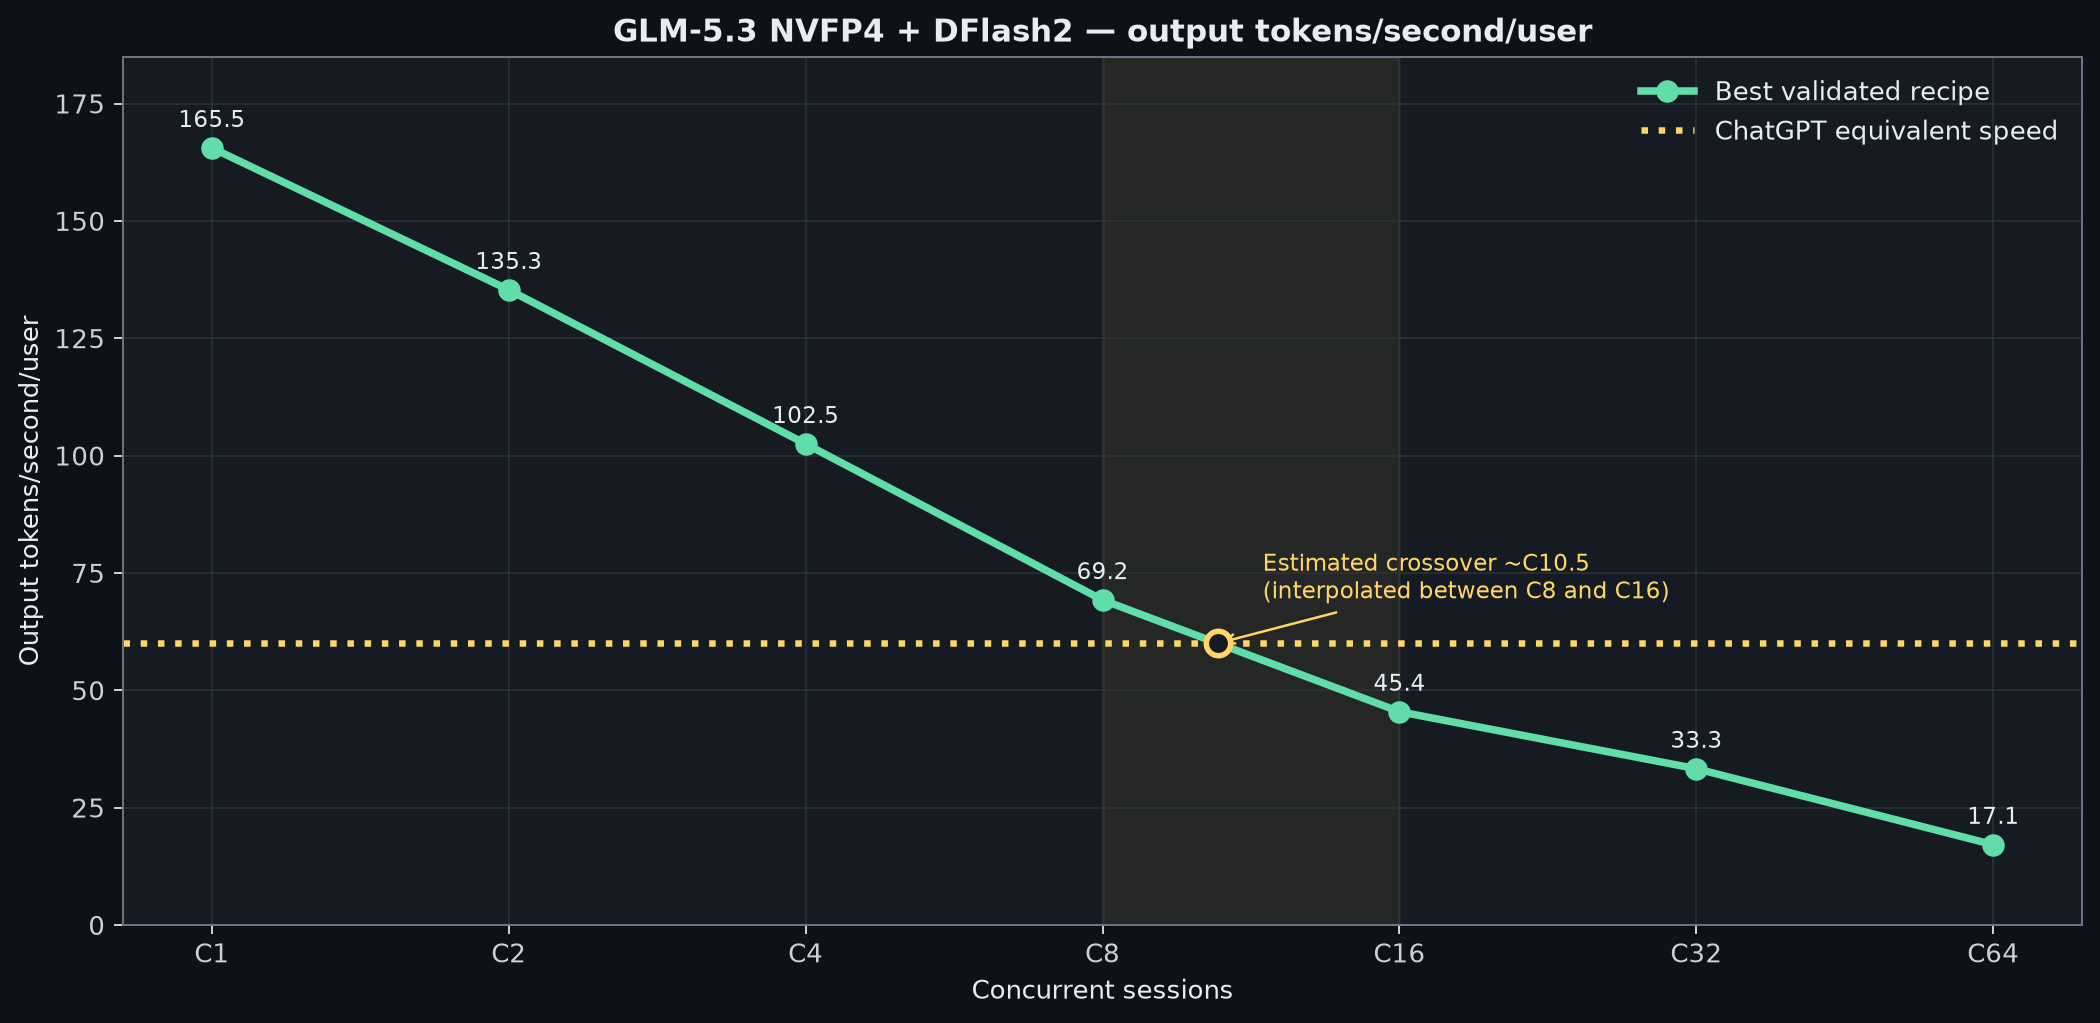
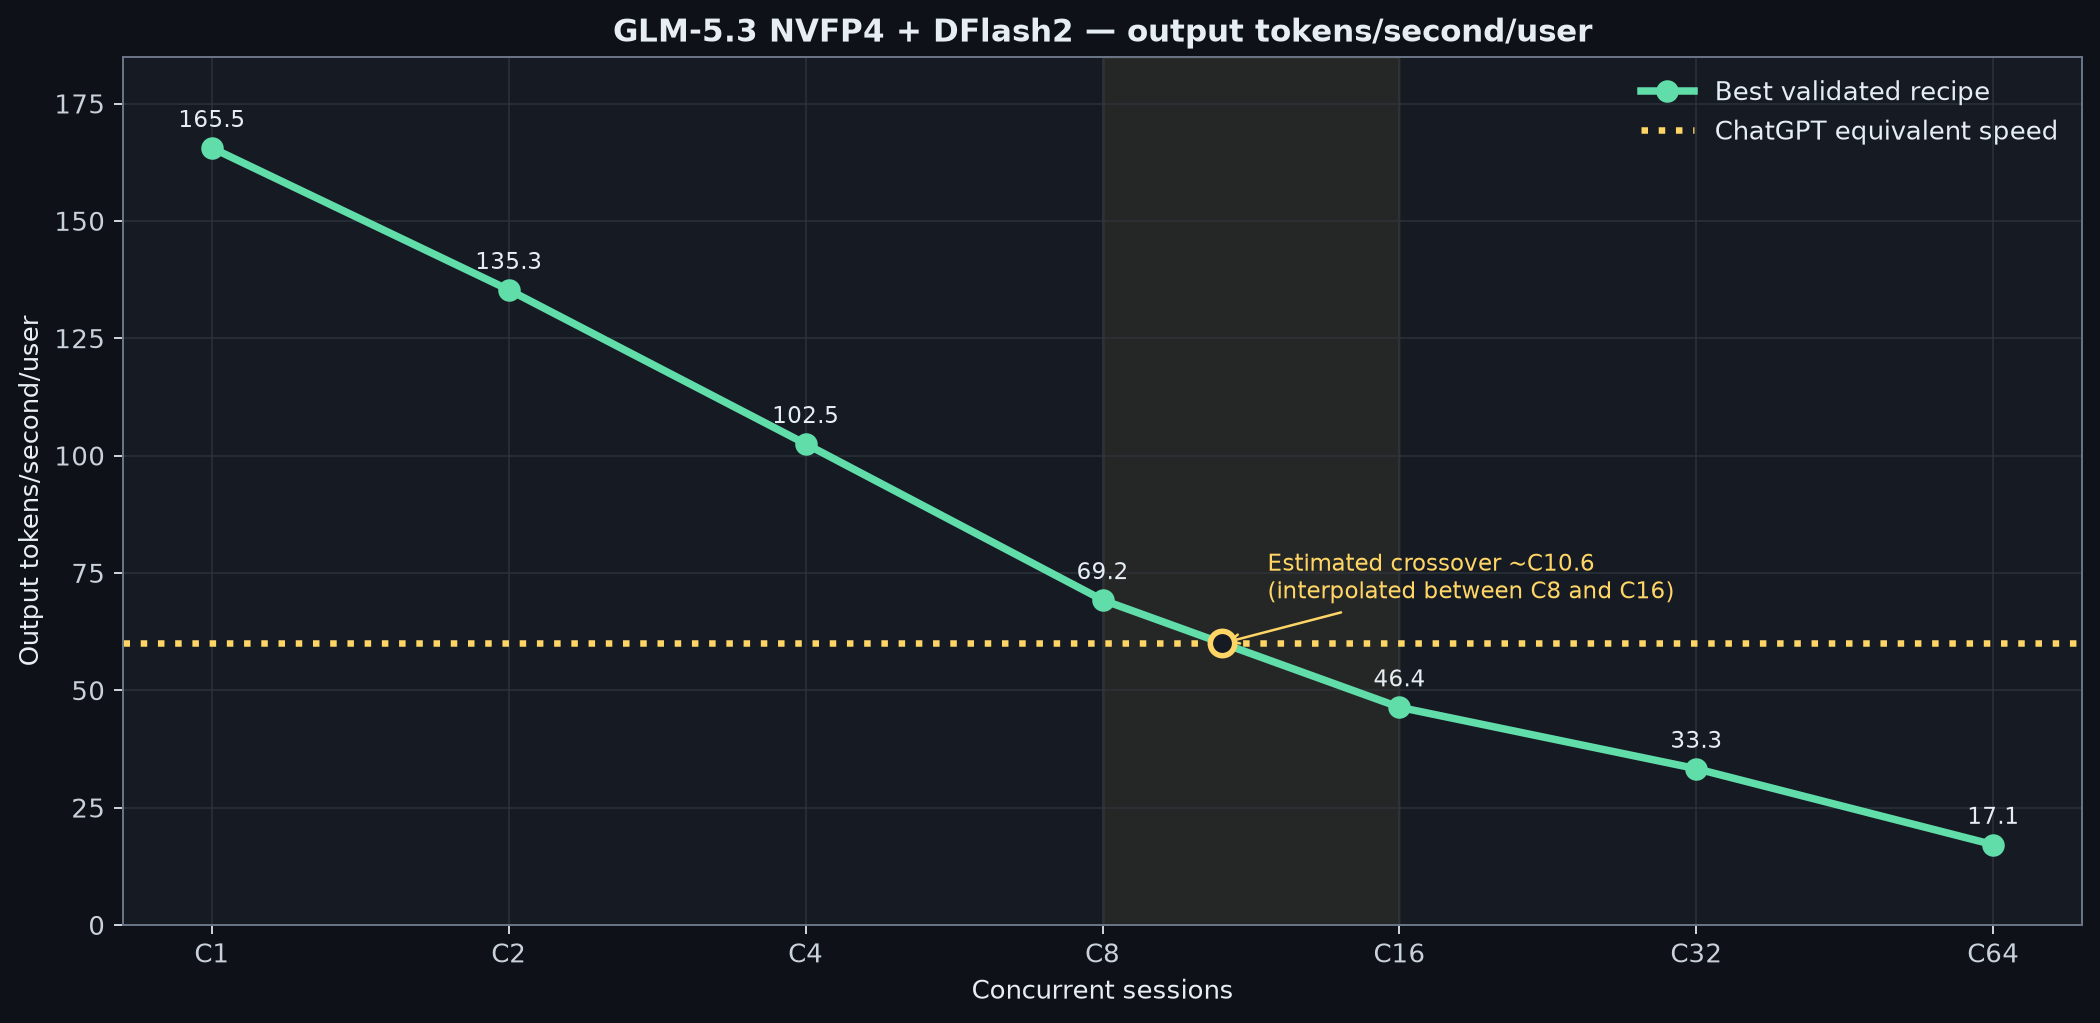
Update GLM-5.3 PP2 C16 headline

Changed region(s): [[0.5571, 0.5455, 0.8048, 0.6667], [0.619, 0.6364, 0.7429, 0.7273], [0.7429, 0.7273, 0.7738, 0.7576]]

diff --git a/glm-5.3/tests/test_section_contract.py b/glm-5.3/tests/test_section_contract.py
@@ -177,7 +177,7 @@ class SectionContractTests(unittest.TestCase):
             (PP2_K4_PROFILE, "prose", 1): 106.25905247627794,
             (PP2_K5_PROFILE, "code_structured", 4): 409.9076978364676,
             (PP2_K7_PROFILE, "code_structured", 8): 553.8355856788203,
-            (PP2_K7_PROFILE, "code_structured", 16): 726.8489766746203,
+            (PP2_K7_PROFILE, "code_structured", 16): 741.9938389998094,
             (PP2_K7_PROFILE, "code_structured", 32): 1064.9785671015213,
             (PP2_K7_PROFILE, "code_structured", 64): 1093.7931437564482,
         }
@@ -221,7 +221,7 @@ class SectionContractTests(unittest.TestCase):
         renderer = (ROOT / "charts/render-charts.py").read_text(encoding="utf-8")
         self.assertIn("**165.5 tok/s**", section)
         self.assertIn("**107.4 tok/s**", section)
-        self.assertIn("**726.8 tok/s**", section)
+        self.assertIn("**742.0 tok/s**", section)
         self.assertIn("**1,065.0 tok/s**", section)
         self.assertIn("**1,093.8 tok/s**", section)
         self.assertIn("**25,893 prompt tok/s**", section)
@@ -240,7 +240,12 @@ class SectionContractTests(unittest.TestCase):
         pp2_recipe = (ROOT / "recipes/pp2_dflash2.md").read_text(encoding="utf-8")
         self.assertIn("VLLM_PP_DFLASH_DECODE_PARTITIONS=2", pp2_recipe)
         self.assertIn("895c5d5c531f13351284133846e2b5c643d744f0", pp2_recipe)
+        self.assertIn("741.994", pp2_recipe)
         self.assertIn("726.849", pp2_recipe)
+        self.assertIn(
[1 lines of base64/hex data omitted]
+            pp2_recipe,
+        )
         self.assertIn("1,093.793", pp2_recipe)
         self.assertIn("did not use the standalone TensorRT-LLM", pp2_recipe)
         self.assertIn("capacity-limited detail rows", pp2_recipe)
@@ -266,6 +271,27 @@ class SectionContractTests(unittest.TestCase):
         )
         self.assertLess(
             float(headline[4]["output_tokens_per_second_per_user"]), 60
+        )
+        self.assertEqual(
+            float(headline[4]["output_tokens_per_second_per_user"]),
+            741.9938389998094 / 16,
+        )
+
+    def test_batch_profile_evidence_hashes(self) -> None:
+        provenance = json.loads(
+            (DATA / "pp2-dflash2-provenance.json").read_text(encoding="utf-8")
+        )
+        batch = next(
+            run for run in provenance["runs"] if run["run_id"] == "vpp2df-k7-c64-p2-r32"
+        )
+        self.assertEqual(batch["role"], "full C16, C32, and C64 batch profile")
+        self.assertEqual(
+            batch["source_sha256"]["c16_full"],
[1 lines of base64/hex data omitted]
+        )
+        self.assertEqual(
+            batch["source_sha256"]["c16_validation"],
[1 lines of base64/hex data omitted]
         )
 
     def test_separate_workstation_comparison(self) -> None:

diff --git a/glm-5.3/recipes/pp2_dflash2.md b/glm-5.3/recipes/pp2_dflash2.md
@@ -13,7 +13,7 @@ out of the headline page.
 | C2 code | PP2 K5 | 270.6 aggregate tok/s |
 | C4 code | PP2 K5 | 409.9 aggregate tok/s |
 | C8 code | PP2 K7 | 553.8 aggregate tok/s |
-| C16 code | PP2 K7 | 726.8 aggregate tok/s |
+| C16 code | PP2 K7 batch | 742.0 aggregate tok/s |
 | C32 code | PP2 K7 batch | 1,065.0 aggregate tok/s |
 | C64 code | PP2 K7 batch | 1,093.8 aggregate tok/s |
 
@@ -70,7 +70,7 @@ serving engine.
 | K4 | 217.11 / 205.30 GiB | 11.61 / 22.98 GiB | 480,832 |
 | K5 | 217.11 / 205.30 GiB | 11.56 / 22.91 GiB | 478,656 |
 | K7 interactive | 217.24 / 205.42 GiB | 11.40 / 22.77 GiB | 472,320 |
-| K7 C32/C64 | 217.11 / 205.30 GiB | 16.51 / 27.85 GiB | 640,896 |
+| K7 C16/C32/C64 | 217.11 / 205.30 GiB | 16.51 / 27.85 GiB | 640,896 |
 
 ## Launch skeleton
 
@@ -135,7 +135,7 @@ vllm serve /model \
 The real launches bind-mounted the verified overlay into the pinned image. The
 retained `runtime/node{0,1}/launch-command.json` files are the authoritative
 full Docker commands, including all mounted source files and CDI device IDs.
-The C32/C64 profile changes the skeleton to `--max-num-seqs 64`,
+The C16/C32/C64 profile changes the skeleton to `--max-num-seqs 64`,
 `--gpu-memory-utilization 0.95`, K7, and CUDA graph sizes
 `1 2 4 8 16 32 64 128`.
 
@@ -160,16 +160,24 @@ The C32/C64 profile changes the skeleton to `--max-num-seqs 64`,
 | 7 | 2 | 267.044 | 526.3 ms | 6.744 ms | 2.802 | 1.9 / 2 | 0.0% |
 | 7 | 4 | 405.715 | 525.6 ms | 9.342 ms | 2.962 | 3.9 / 4 | 0.0% |
 | 7 | 8 | 553.836 | 527.5 ms | 13.470 ms | 2.894 | 7.6 / 8 | 2.7% |
-| 7 | 16 | 726.849 | 573.3 ms | 20.035 ms | 2.833 | 14.9 / 16 | 3.6% |
+| 7 | 16 | 741.994 | 568.6 ms | 19.803 ms | 2.876 | 15.1 / 16 | 3.6% |
 | 7 | 32 | 1,064.979 | 676.6 ms | 27.664 ms | 2.873 | 29.9 / 32 | 9.2% |
 | 7 | 64 | 1,093.793 | 903.5 ms | 54.904 ms | 2.858 | 60.2 / 64 | 11.1% |
 
 Accepted proposals excludes the guaranteed target/anchor token. K4 C16 used
 32 measured requests (`2×C`) under successive halving; every other row used
 `5×C`. All rows completed the exact request count with zero request errors.
-The C32/C64 validator sets `capacity_limited=true` when it observes scheduler
-queueing; both rows have `underfilled=false`, reached the full offered maximum
-active count, and completed 160/160 and 320/320 requests respectively.
+The batch-profile validator sets `capacity_limited=true` when it observes
+scheduler queueing. C16, C32, and C64 all have `underfilled=false`, reached the
+full offered maximum active count, and completed 80/80, 160/160, and 320/320
+requests respectively. The prior 0.93-memory K7 envelope reached 726.849 tok/s
+at C16; it remains in the matched patch A/B below rather than the headline.
+
+| Batch cell | Result JSON SHA-256 | Validation JSON SHA-256 |
+| ---: | --- | --- |
[3 lines of base64/hex data omitted]
 
 ## Per-user headline curve
 
@@ -182,7 +190,7 @@ output tok/s/user = aggregate output tok/s / offered concurrency
 
 This intentionally uses offered concurrency, not average scheduler residency.
 The plotted 60 tok/s reference crosses the straight line segment on the
-log2-concurrency axis between measured C8 and C16 at approximately C10.5. That
+log2-concurrency axis between measured C8 and C16 at approximately C10.6. That
 is an interpolated visual crossover, not a measured C10 or C11 benchmark.
 
 ## Patch A/B

diff --git a/glm-5.3/recipes/README.md b/glm-5.3/recipes/README.md
@@ -33,8 +33,8 @@ GPUDirect RDMA.
 
 | Run | Serving engine | Topology | Draft attention | Target MoE | FlashInfer | Measured cells |
 | --- | --- | --- | --- | --- | --- | --- |
-| `g53-b2-tep2-df2-low-bs32-r1` | SGLang | TP2 / EP2 | TRTLLM-MHA | FlashInfer TRTLLM | 0.6.17 | C1 code/prose and C16 headline cells |
-| `g53-b4-tep2-df2-low-bs32-schema5-r1` | SGLang | TP2 / EP2 | TRTLLM-MHA | FlashInfer TRTLLM | 0.6.17 | C32, offered C64, and 64K prefill headline cells |
+| `g53-b2-tep2-df2-low-bs32-r1` | SGLang | TP2 / EP2 | TRTLLM-MHA | FlashInfer TRTLLM | 0.6.17 | C1 code/prose headline; C16 detail |
+| `g53-b4-tep2-df2-low-bs32-schema5-r1` | SGLang | TP2 / EP2 | TRTLLM-MHA | FlashInfer TRTLLM | 0.6.17 | Capacity-limited C32/C64 and 64K prefill detail |
 | `g53-b1-tp2-df2-low-bs32-r1` | SGLang | TP2 / EP1 | TRTLLM-MHA | FlashInfer TRTLLM | 0.6.17 | C1 code/prose, C16, C32, offered C64, 64K prefill diagnostic |
 | `g53-s1-tep2-df2-fa4-fi0617-r1` | SGLang | TP2 / EP2 | FA4 | FlashInfer TRTLLM | 0.6.17 | C1 code/prose and C16 diagnostic |
 | `g53-b3-tep2-df2-fi0618rc10-r1` | SGLang | TP2 / EP2 | TRTLLM-MHA | FlashInfer TRTLLM | 0.6.18rc10 | C1 code diagnostic |
@@ -42,8 +42,8 @@ GPUDirect RDMA.
 | `g53-p0-pp2-ar-40-38-prefill-r1` | SGLang | PP2 40/38 | N/A (AR) | FlashInfer TRTLLM | 0.6.17 | Five exact 64K cold-prefill samples; headline median |
 | `vpp2df-k4-fi-trt-p2-r31` | vLLM + PP cohort patch | PP2 42/36 | FA4, K4 | FlashInfer TRTLLM | 0.6.17 | C1–C8 full cells and C16 screen |
 | `vpp2df-k5-fi-trt-p2-r30` | vLLM + PP cohort patch | PP2 42/36 | FA4, K5 | FlashInfer TRTLLM | 0.6.17 | C1–C16 full cells |
-| `vpp2df-k7-fi-trt-ef25-p2-r29b` | vLLM + PP cohort patch | PP2 42/36 | FA4, K7 | FlashInfer TRTLLM | 0.6.17 | C1–C16 full cells; batch leader |
-| `vpp2df-k7-c64-p2-r32` | vLLM + PP cohort patch | PP2 42/36 | FA4, K7 | FlashInfer TRTLLM | 0.6.17 | C32/C64 full cells; batch leader |
+| `vpp2df-k7-fi-trt-ef25-p2-r29b` | vLLM + PP cohort patch | PP2 42/36 | FA4, K7 | FlashInfer TRTLLM | 0.6.17 | C1–C8 full cells and prior C16 envelope |
+| `vpp2df-k7-c64-p2-r32` | vLLM + PP cohort patch | PP2 42/36 | FA4, K7 | FlashInfer TRTLLM | 0.6.17 | C16/C32/C64 full cells; batch leader |
 
 The headline charts select the competitive cells and never fill in missing
 concurrencies.

diff --git a/glm-5.3/README.md b/glm-5.3/README.md
@@ -15,7 +15,7 @@ on 2× NVIDIA DGX Station GB300.
 | C2 code | vLLM PP2 42/36 · DFlash2 K5 | **270.6 tok/s** | 1.9 / 2 active · 0.0% queued |
 | C4 code | vLLM PP2 42/36 · DFlash2 K5 | **409.9 tok/s** | 3.8 / 4 active · 0.0% queued |
 | C8 code | vLLM PP2 42/36 · DFlash2 K7 | **553.8 tok/s** | 7.6 / 8 active · 2.7% queued |
-| C16 code | vLLM PP2 42/36 · DFlash2 K7 | **726.8 tok/s** | 14.9 / 16 active · 3.6% queued |
+| C16 code | vLLM PP2 42/36 · DFlash2 K7 | **742.0 tok/s** | 15.1 / 16 active · 3.6% queued |
 | C32 code | vLLM PP2 42/36 · DFlash2 K7 | **1,065.0 tok/s** | 29.9 / 32 active · 9.2% queued |
 | C64 code | vLLM PP2 42/36 · DFlash2 K7 | **1,093.8 tok/s** | 60.2 / 64 active · 11.1% queued |
 | Exact 64K cold prefill | SGLang PP2/AR 40/38 | **25,893 prompt tok/s** | 2.531 s median TTFT |
@@ -30,7 +30,7 @@ on 2× NVIDIA DGX Station GB300.
 | ---: | ---: | ---: | ---: | ---: | ---: | ---: | ---: | ---: |
 | **K4** | **154.9** | **106.3** | 270.6 | 399.9 | 542.5 | 725.6* | — | — |
 | **K5** | 152.6 | 104.1 | **270.6** | **409.9** | 538.9 | 723.6 | — | — |
-| **K7** | 146.0 | 92.7 | 267.0 | 405.7 | **553.8** | **726.8** | **1,065.0** | **1,093.8** |
+| **K7** | 146.0 | 92.7 | 267.0 | 405.7 | **553.8** | **742.0** | **1,065.0** | **1,093.8** |
 
 Aggregate output tok/s, exact 8,192-token input and 1,024-token output. All
 cells use `5×C` measured requests except the validated `K4 C16` `2×C` screen.
